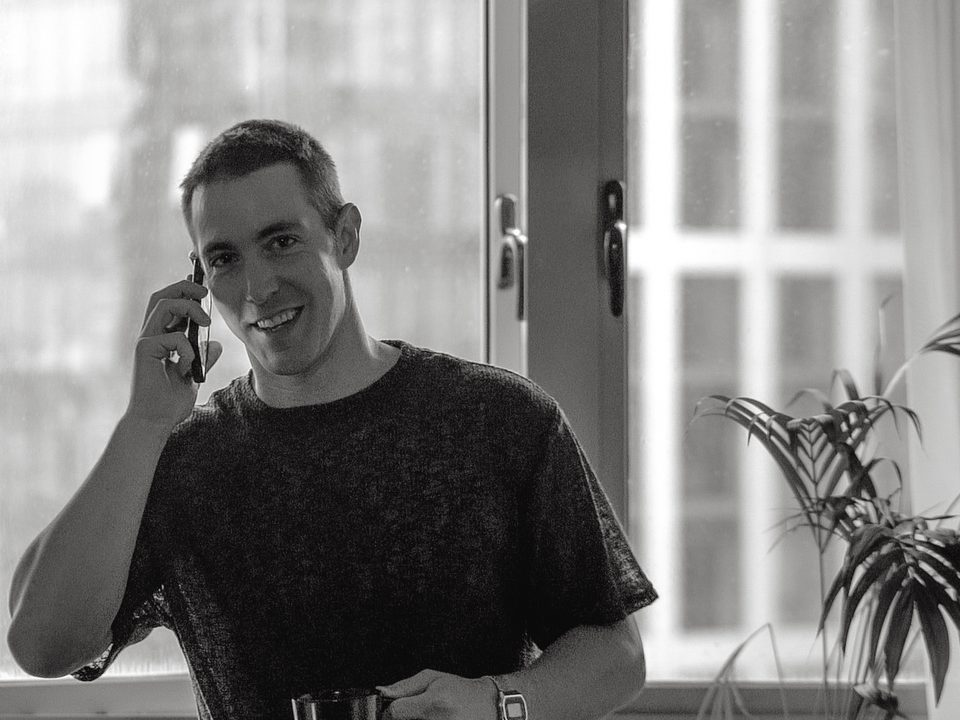
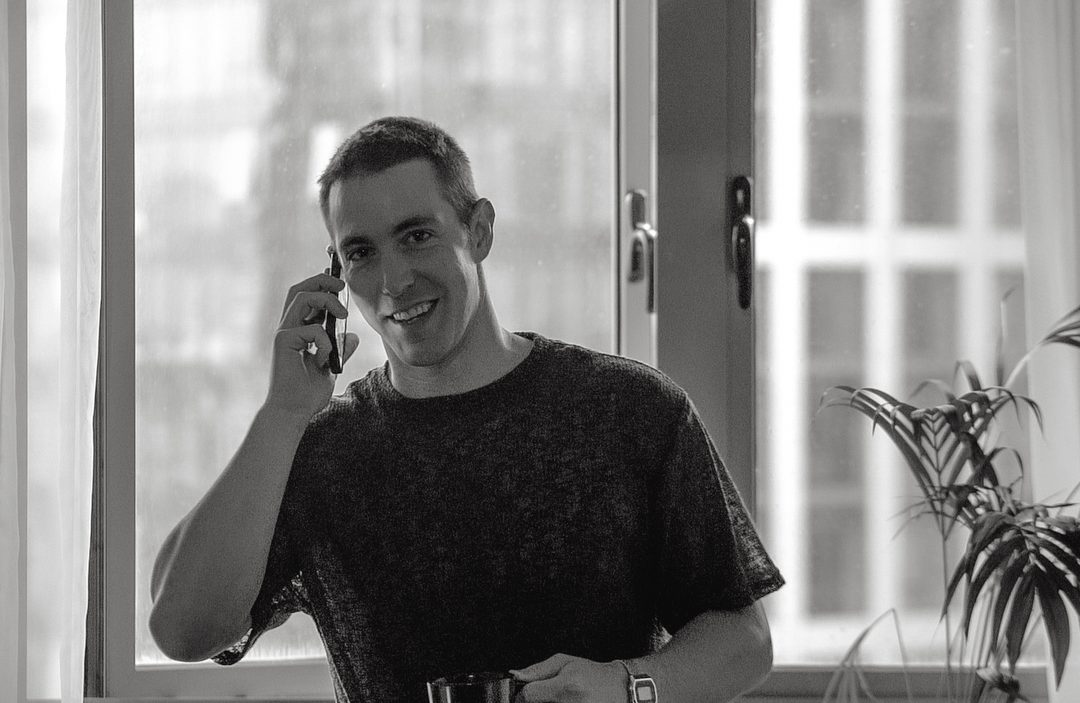
Session 4 item 8: full-frame founder portrait, no crop, layout reflow

diff --git a/src/pages/About.jsx b/src/pages/About.jsx
@@ -71,21 +71,21 @@ export default function About() {
               When you work with Forecite, you work with me. I run your audit, scope the engagement, and handle the implementation. There's no layer between us. I take on fewer clients because of that, and each engagement gets the full depth of the methodology and tools I've built.
             </p>
           </div>
-          <div className="person-row" style={{ display: 'flex', alignItems: 'start', gap: 24 }}>
-            {/* Founder portrait. B&W candid; subject on the phone, plant + window
-                architecture in frame, mug at the desk — real-moment composition
-                rather than a stiff headshot. 4:3 aspect at 240×180 desktop. */}
+          <div className="person-row" style={{ display: 'flex', flexDirection: 'column', gap: 24, alignItems: 'start' }}>
+            {/* Founder portrait. Full-frame as Andrew composed it — 3:2 native
+                aspect, no zoom-in. The window architecture, the curtain, the
+                plant, and the mug are intentional framing elements; the photo
+                gets the full right-column width so they actually read. The
+                credential block becomes a caption below. */}
             <img
               src="/portrait.jpg"
               alt="Andrew Bushnell"
-              width="240"
-              height="180"
               style={{
-                width: 240,
-                height: 180,
+                width: '100%',
+                maxWidth: 520,
+                aspectRatio: '3 / 2',
                 objectFit: 'cover',
                 border: '1px solid var(--border-bone-on-forest-hover)',
-                flexShrink: 0,
                 display: 'block',
               }}
             />

diff --git a/src/styles/responsive.css b/src/styles/responsive.css
@@ -224,20 +224,10 @@
    when the inline Cal.com embed was replaced by a modal trigger button.
    Page is now single-column hero, no grid stacking needed. */
 
-/* About person row (photo + name) — keep horizontal on mobile but
-   shrink photo so the row doesn't dominate.
-   Session 4 item 8: selector lifted from `> div:first-child` to
-   `> :first-child` because the placeholder div became an <img>; sized
-   for the 4:3 portrait at 140×105 so the aspect carries through. */
-@media (max-width: 480px) {
-  .person-row {
-    gap: 16px !important;
-  }
-  .person-row > :first-child {
-    width: 140px !important;
-    height: 105px !important;
-  }
-}
+/* About person row layout: stacks photo above bio (Session 4 item 8 — full
+   3:2 frame, no crop). Image is fluid (width: 100% + aspectRatio: 3/2),
+   so no per-breakpoint size override is needed. The pixel-size rule that
+   used to live here is retired. */
 
 /* ---------------------------------------------------------------------
    3. Footer — 4-col → 2-col → 1-col responsive collapse.